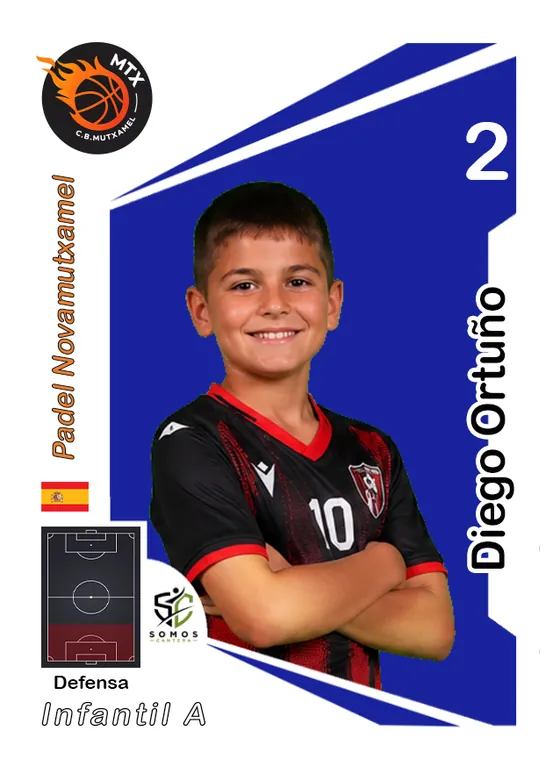
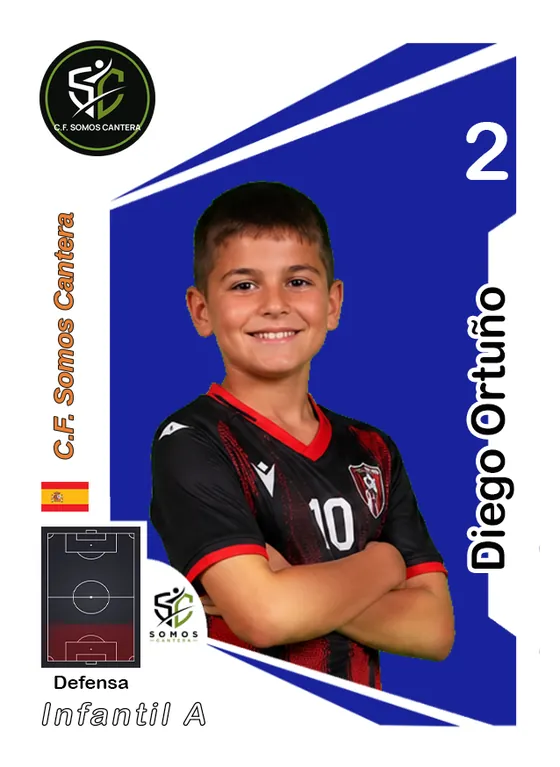
Web: sustituir el club real de los ejemplos por C.F. Somos Cantera
Los ejemplos mostraban un club real (C.B. Mutxamel). Se editan las 11 imágenes:
escudos (grandes, de pecho y de pared) por el escudo de C.F. Somos Cantera, y los
textos del club en cromos y álbum (portada, bienvenida, historia, camiseta).
El club de ejemplo del hero y de la colección pasa a ser el mismo, y la nota de
la galería indica que es un club ficticio.

Claude-Session: https://claude.ai/code/session_011V9HKBeV89xfiqV8mY1qPu

Changed region(s): [[0.0607, 0.03, 0.3036, 0.5997]]

diff --git a/index.html b/index.html
@@ -65,7 +65,7 @@
             <svg class="album__escudo" aria-hidden="true"><use href="#escudo"/></svg>
             <div>
               <p class="album__equipo">Alevín A</p>
-              <p class="album__club">C.D. Ejemplo, temporada 2026/27</p>
+              <p class="album__club">C.F. Somos Cantera, temporada 2026/27</p>
             </div>
           </div>
           <ol class="album__huecos">
@@ -113,7 +113,7 @@
           <figure class="objeto objeto--album">
             <div class="portada" aria-hidden="true">
               <svg class="portada__escudo"><use href="#escudo"/></svg>
-              <p class="portada__club">C.D. Ejemplo</p>
+              <p class="portada__club">C.F. Somos Cantera</p>
               <p class="portada__temp">Temporada 2026/27</p>
               <p class="portada__lema">Hoy cantera. Mañana historia.</p>
             </div>
@@ -181,7 +181,7 @@
             <p>Portada con la identidad del club, bienvenida, historia, y por cada equipo su foto de grupo y los huecos numerados de sus jugadores.</p>
           </div>
           <div class="album-ej">
-            <img class="album-ej__portada" src="/assets/ejemplos/album-portada.webp" alt="Portada de un álbum de cromos de un club de baloncesto" width="349" height="376" loading="lazy" decoding="async">
+            <img class="album-ej__portada" src="/assets/ejemplos/album-portada.webp" alt="Portada del álbum de cromos de un club de ejemplo, el C.F. Somos Cantera" width="349" height="376" loading="lazy" decoding="async">
             <img class="album-ej__historia" src="/assets/ejemplos/album-historia.webp" alt="Páginas de bienvenida e historia del club" width="804" height="376" loading="lazy" decoding="async">
             <div class="album-ej__equipos" tabindex="0" role="region" aria-label="Páginas de equipo del álbum (desliza para ver más)">
               <img src="/assets/ejemplos/album-equipos.webp" alt="Páginas de equipo: foto de grupo y huecos numerados para los cromos de cada jugador" width="1522" height="295" loading="lazy" decoding="async">
@@ -189,7 +189,7 @@
           </div>
         </div>
 
-        <p class="ejemplos__nota">Diseños de muestra. Las imágenes de jugadores de esta sección están generadas con IA.</p>
+        <p class="ejemplos__nota">Diseños de muestra con un club ficticio, el C.F. Somos Cantera. Las imágenes de jugadores están generadas con IA.</p>
       </div>
     </section>
 
